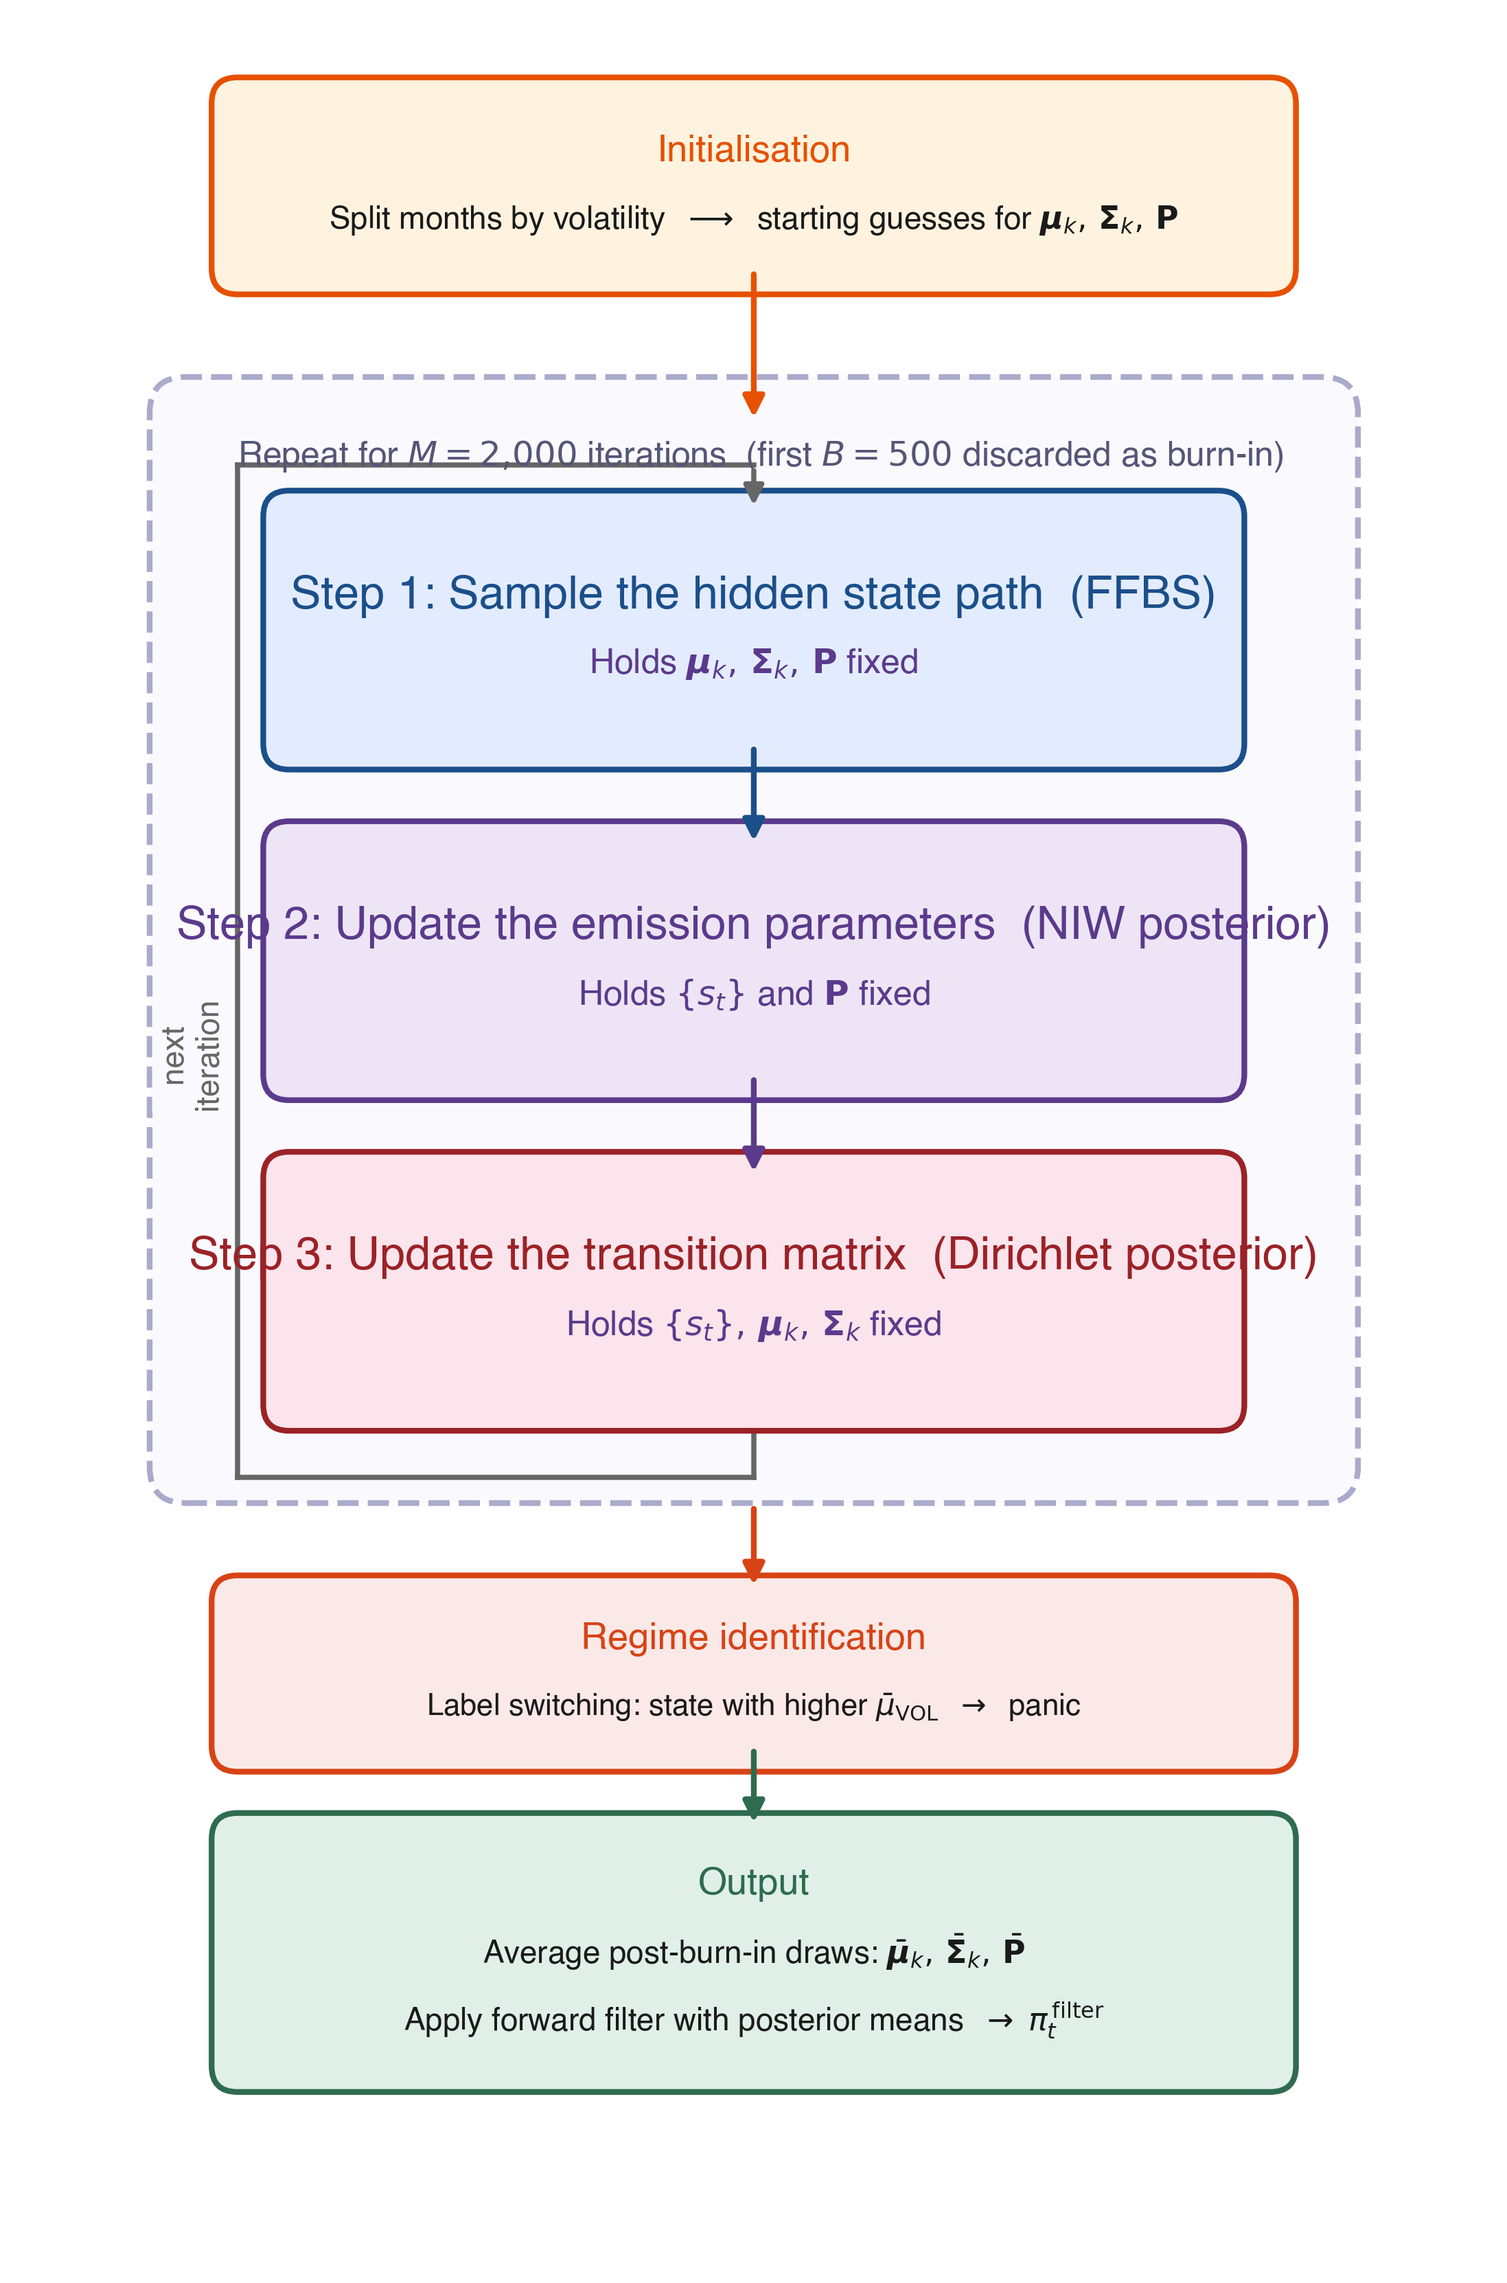
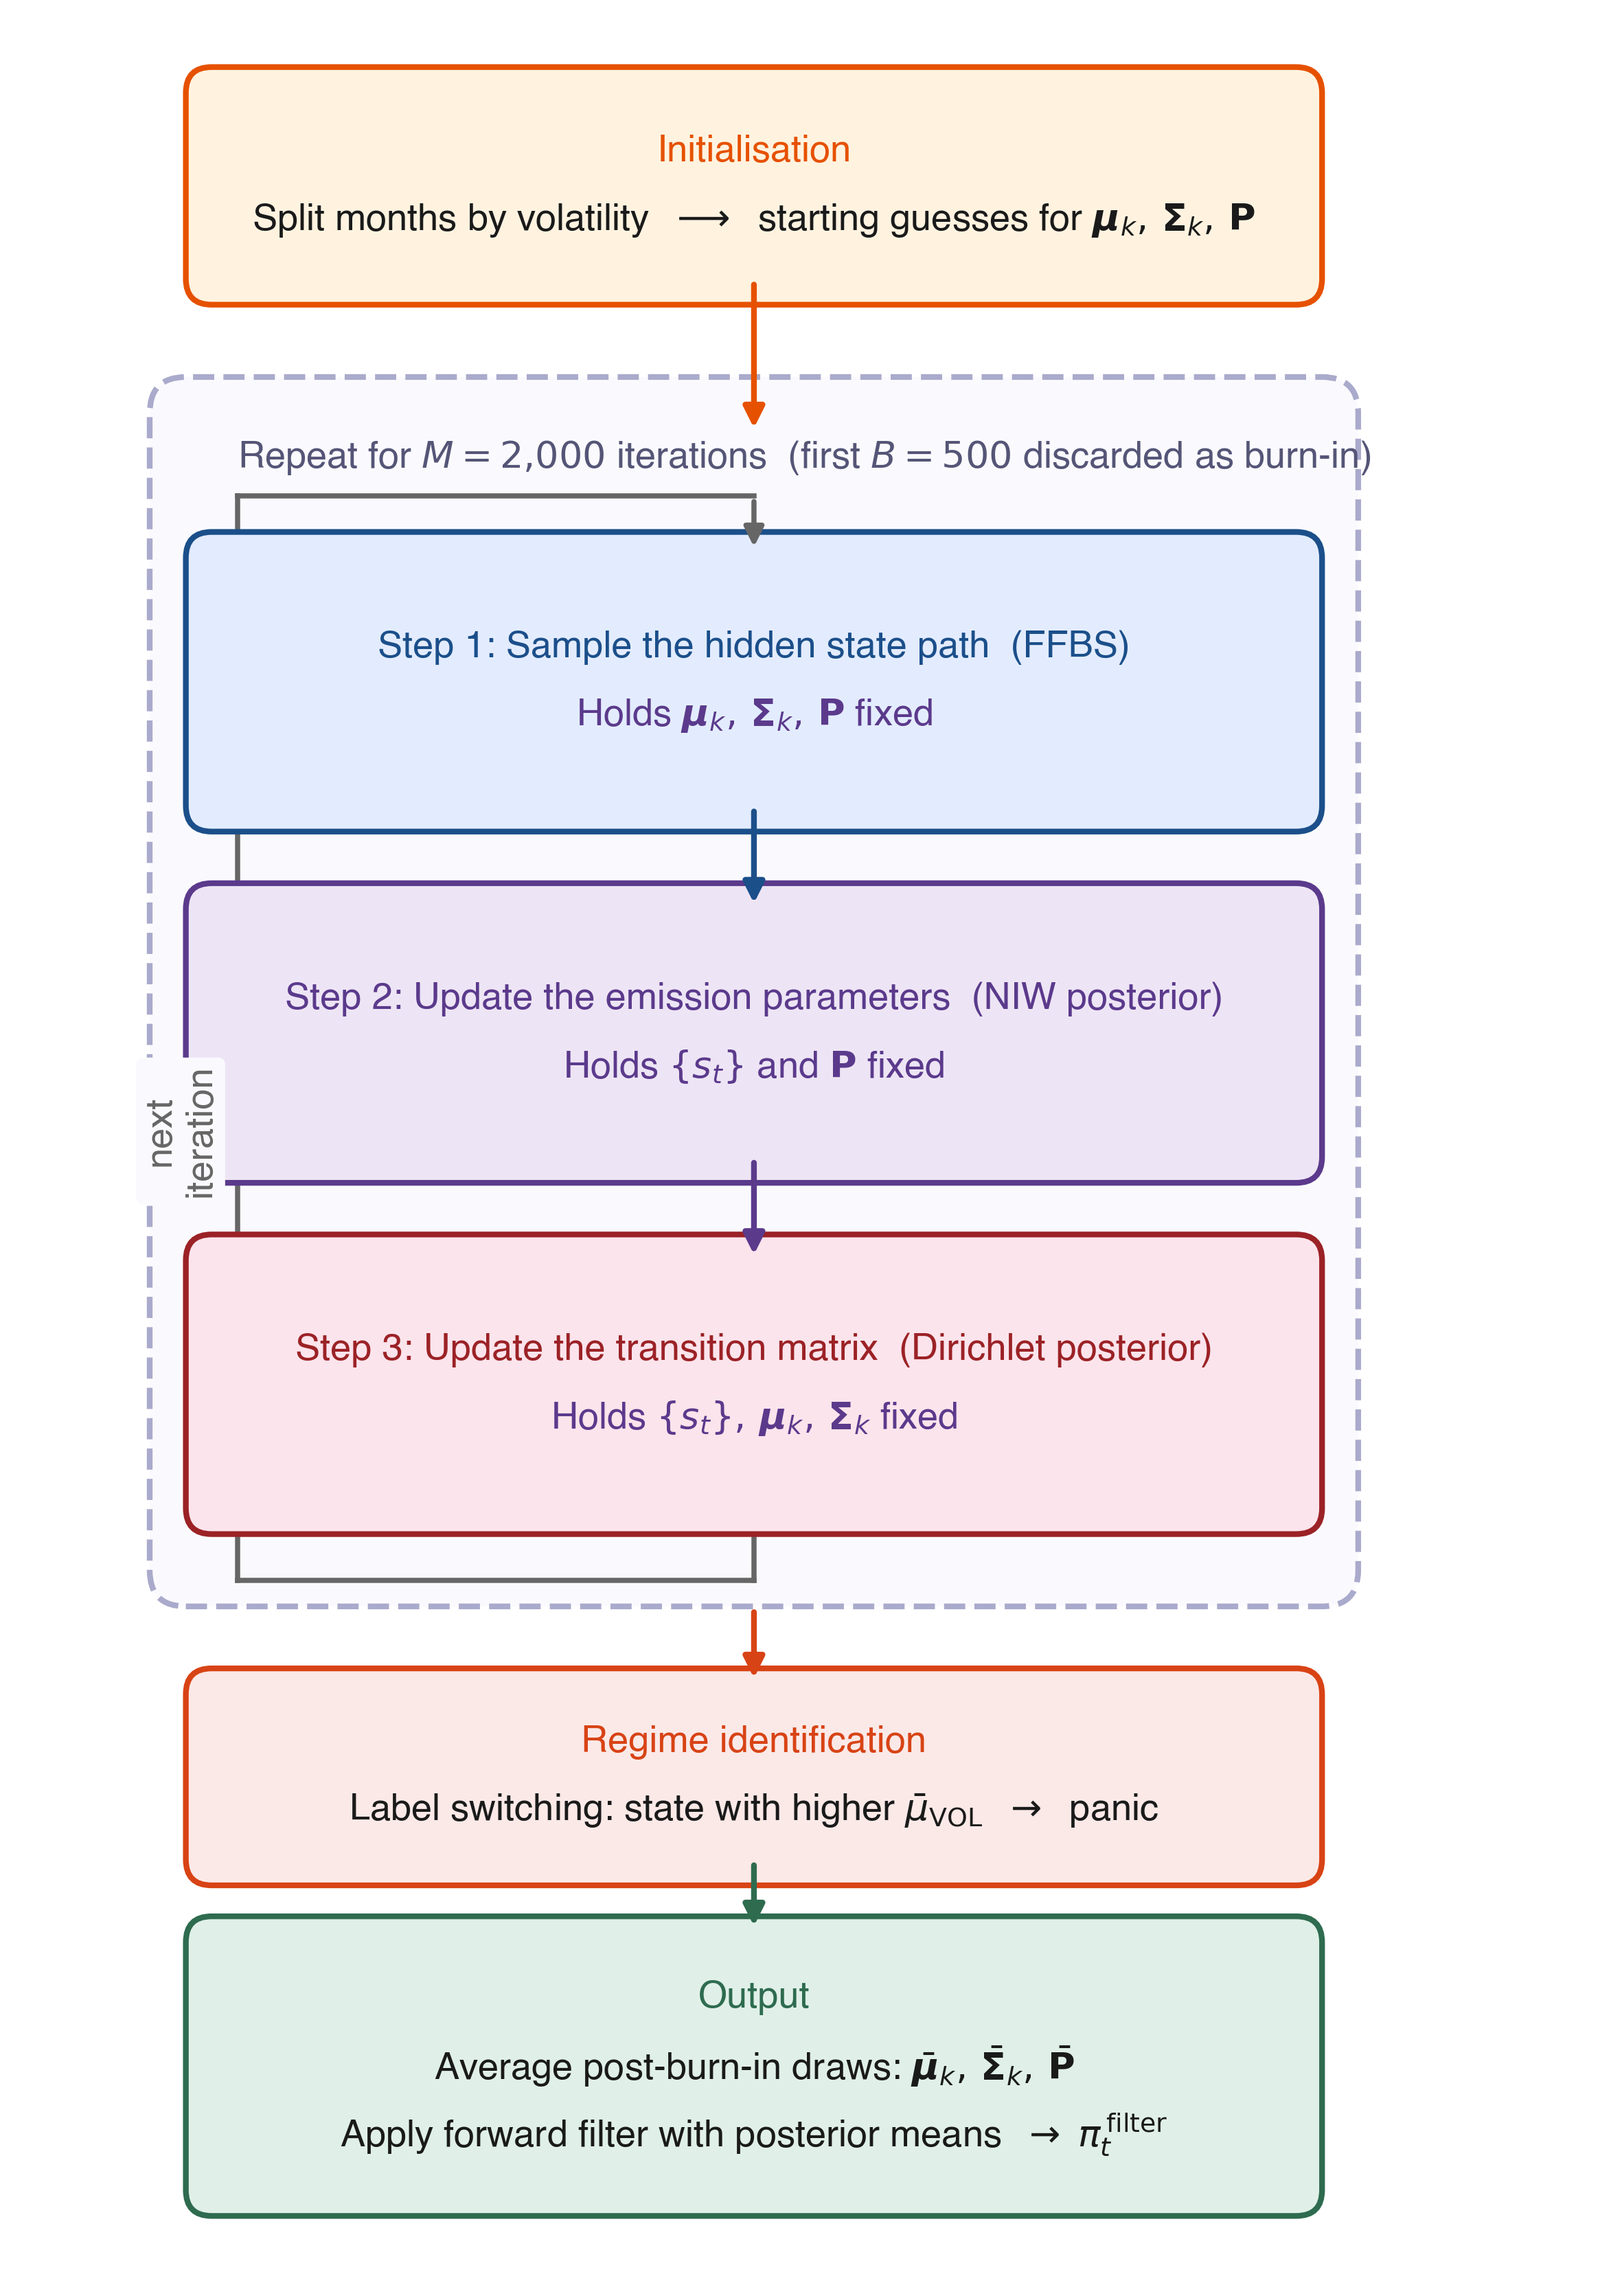
methodology: fix Gibbs diagram (uniform 13pt text, wider boxes, no loop-label overlap)
- Single font size (13pt) for every label in the figure; bold is reserved for the box headers and the loop label.
- Step box width 9 -> 10.5 so the longest step title fits without clipping.
- Loop-back arrow's horizontal feed-in moved below the "Repeat for M=2000" label so the two no longer cross.

Changed region(s): [[0.0929, 0.031, 0.8674, 0.9916]]

diff --git a/archive/scripts/generate_gibbs_diagram.py b/archive/scripts/generate_gibbs_diagram.py
@@ -30,8 +30,10 @@ EQ_COLOR = '#333333'
 plt.rcParams['font.family'] = 'sans-serif'
 plt.rcParams['font.sans-serif'] = ['Helvetica', 'Arial', 'DejaVu Sans']
 
-fig, ax = plt.subplots(1, 1, figsize=(11, 14))
-ax.set_xlim(-1.5, 12.5)
+FS = 13  # uniform font size everywhere
+
+fig, ax = plt.subplots(1, 1, figsize=(12, 14))
+ax.set_xlim(-1.5, 13.5)
 ax.set_ylim(-19, 2.5)
 ax.set_aspect('equal')
 ax.axis('off')
@@ -63,18 +65,19 @@ def arrow_down(ax, x, y1, y2, color=GREY, lw=2):
         color=color, zorder=5))
 
 cx = 5.5
-sw = 9.0
+sw = 10.5      # step box width (wider so titles fit)
+init_w = 10.5  # init/label/output width matches steps
 step_gap = 1.0
 
 # ═══════════════════════════════════════════
 # INIT
 # ═══════════════════════════════════════════
 init_y = 1.0
-init_h = 1.6
-add_box(ax, cx, init_y, 10.0, init_h, [
-    ('Initialisation', 13, INIT_EDGE, True),
+init_h = 1.8
+add_box(ax, cx, init_y, init_w, init_h, [
+    ('Initialisation', FS, INIT_EDGE, True),
     ('', 3, TEXT_DARK, False),
-    (r'Split months by volatility $\;\longrightarrow\;$ starting guesses for $\boldsymbol{\mu}_k,\, \boldsymbol{\Sigma}_k,\, \mathbf{P}$', 11, TEXT_DARK, False),
+    (r'Split months by volatility $\;\longrightarrow\;$ starting guesses for $\boldsymbol{\mu}_k,\, \boldsymbol{\Sigma}_k,\, \mathbf{P}$', FS, TEXT_DARK, False),
 ], INIT_FILL, INIT_EDGE)
 
 arrow_down(ax, cx, init_y - init_h/2, init_y - init_h/2 - 1.5, INIT_EDGE)
@@ -83,9 +86,9 @@ arrow_down(ax, cx, init_y - init_h/2, init_y - init_h/2 - 1.5, INIT_EDGE)
 # Compute step positions
 # ═══════════════════════════════════════════
 loop_top = -1.2
-sh = 2.2
+sh = 2.4
 
-s1_y = loop_top - 1.0 - sh/2
+s1_y = loop_top - 1.4 - sh/2     # extra headroom above Step 1 for the "Repeat" label and loop-back arrow
 s2_y = s1_y - sh/2 - step_gap - sh/2
 s3_y = s2_y - sh/2 - step_gap - sh/2
 
@@ -99,17 +102,18 @@ loop_box = FancyBboxPatch((0.0, loop_bot), 11, loop_top - loop_bot,
                             boxstyle='round,pad=0.35', facecolor=LOOP_BG,
                             edgecolor=LOOP_EDGE, linewidth=2, linestyle='--', zorder=0)
 ax.add_patch(loop_box)
-ax.text(0.5, loop_top - 0.25,
+loop_label_y = loop_top - 0.25
+ax.text(0.5, loop_label_y,
         r'Repeat for $M = 2{,}000$ iterations  (first $B = 500$ discarded as burn-in)',
-        fontsize=12, fontstyle='italic', color='#555577', va='top', fontweight='bold')
+        fontsize=FS, fontstyle='italic', color='#555577', va='top', fontweight='bold')
 
 # ═══════════════════════════════════════════
 # STEP 1: FFBS
 # ═══════════════════════════════════════════
 add_box(ax, cx, s1_y, sw, sh, [
-    (r'Step 1: Sample the hidden state path  (FFBS)', 16, BLUE, True),
+    (r'Step 1: Sample the hidden state path  (FFBS)', FS, BLUE, True),
     ('', 2, TEXT_DARK, False),
-    (r'Holds $\boldsymbol{\mu}_k,\, \boldsymbol{\Sigma}_k,\, \mathbf{P}$ fixed', 12, PURPLE, False),
+    (r'Holds $\boldsymbol{\mu}_k,\, \boldsymbol{\Sigma}_k,\, \mathbf{P}$ fixed', FS, PURPLE, False),
 ], STEP1_FILL, STEP1_EDGE)
 
 arrow_down(ax, cx, s1_y - sh/2, s1_y - sh/2 - step_gap, BLUE)
@@ -118,9 +122,9 @@ arrow_down(ax, cx, s1_y - sh/2, s1_y - sh/2 - step_gap, BLUE)
 # STEP 2: NIW update
 # ═══════════════════════════════════════════
 add_box(ax, cx, s2_y, sw, sh, [
-    (r'Step 2: Update the emission parameters  (NIW posterior)', 16, PURPLE, True),
+    (r'Step 2: Update the emission parameters  (NIW posterior)', FS, PURPLE, True),
     ('', 2, TEXT_DARK, False),
-    (r'Holds $\{s_t\}$ and $\mathbf{P}$ fixed', 12, PURPLE, False),
+    (r'Holds $\{s_t\}$ and $\mathbf{P}$ fixed', FS, PURPLE, False),
 ], STEP2_FILL, STEP2_EDGE)
 
 arrow_down(ax, cx, s2_y - sh/2, s2_y - sh/2 - step_gap, PURPLE)
@@ -129,30 +133,33 @@ arrow_down(ax, cx, s2_y - sh/2, s2_y - sh/2 - step_gap, PURPLE)
 # STEP 3: Dirichlet update
 # ═══════════════════════════════════════════
 add_box(ax, cx, s3_y, sw, sh, [
-    (r'Step 3: Update the transition matrix  (Dirichlet posterior)', 16, '#9B2226', True),
+    (r'Step 3: Update the transition matrix  (Dirichlet posterior)', FS, '#9B2226', True),
     ('', 2, TEXT_DARK, False),
-    (r'Holds $\{s_t\},\, \boldsymbol{\mu}_k,\, \boldsymbol{\Sigma}_k$ fixed', 12, PURPLE, False),
+    (r'Holds $\{s_t\},\, \boldsymbol{\mu}_k,\, \boldsymbol{\Sigma}_k$ fixed', FS, PURPLE, False),
 ], STEP3_FILL, STEP3_EDGE)
 
 # ── Loop-back arrow ──
+# Routed on the LEFT side of the loop box, with the horizontal feed-in placed
+# between the "Repeat for M=..." label and the Step 1 box.
 loop_bottom_y = s3_y - sh/2 - 0.7
 loop_x = 0.5
+step1_top = s1_y + sh/2
+horiz_top_y = (loop_label_y - 0.55)   # well below the label baseline
 # Down from Step 3
 ax.plot([cx, cx], [s3_y - sh/2, loop_bottom_y], color=GREY, lw=1.8, zorder=2)
 # Across to the left
 ax.plot([cx, loop_x], [loop_bottom_y, loop_bottom_y], color=GREY, lw=1.8, zorder=2)
-# Up along the left side to above Step 1
-step1_top = s1_y + sh/2
-ax.plot([loop_x, loop_x], [loop_bottom_y, step1_top + 0.5], color=GREY, lw=1.8, zorder=2)
+# Up along the left side
+ax.plot([loop_x, loop_x], [loop_bottom_y, horiz_top_y], color=GREY, lw=1.8, zorder=2)
 # Across to the right, ending above Step 1 center
-ax.plot([loop_x, cx], [step1_top + 0.5, step1_top + 0.5], color=GREY, lw=1.8, zorder=2)
+ax.plot([loop_x, cx], [horiz_top_y, horiz_top_y], color=GREY, lw=1.8, zorder=2)
 # Arrow down into the top of Step 1
 ax.add_patch(FancyArrowPatch(
-    posA=(cx, step1_top + 0.5), posB=(cx, step1_top + 0.05),
+    posA=(cx, horiz_top_y), posB=(cx, step1_top + 0.05),
     arrowstyle='-|>', mutation_scale=14, linewidth=1.8,
     color=GREY, zorder=5))
-ax.text(loop_x - 0.45, (loop_bottom_y + s1_y) / 2, 'next\niteration',
-        fontsize=11, fontstyle='italic', color=GREY,
+ax.text(loop_x - 0.55, (loop_bottom_y + s1_y) / 2, 'next\niteration',
+        fontsize=FS, fontstyle='italic', color=GREY,
         ha='center', va='center', rotation=90,
         bbox=dict(boxstyle='round,pad=0.2', facecolor=LOOP_BG, edgecolor='none'))
 
@@ -163,28 +170,28 @@ LABEL_FILL = '#FBE9E7'
 LABEL_EDGE = '#D84315'
 
 label_y = loop_bot - 2.0
-label_h = 1.4
+label_h = 1.6
 arrow_down(ax, cx, loop_bot - 0.35, label_y + label_h/2 + 0.1, LABEL_EDGE)
 
-add_box(ax, cx, label_y, 10.0, label_h, [
-    ('Regime identification', 13, LABEL_EDGE, True),
+add_box(ax, cx, label_y, init_w, label_h, [
+    ('Regime identification', FS, LABEL_EDGE, True),
     ('', 2, TEXT_DARK, False),
-    (r'Label switching: state with higher $\bar{\mu}_{\mathrm{VOL}}$ $\;\rightarrow\;$ panic', 10.5, TEXT_DARK, False),
+    (r'Label switching: state with higher $\bar{\mu}_{\mathrm{VOL}}$ $\;\rightarrow\;$ panic', FS, TEXT_DARK, False),
 ], LABEL_FILL, LABEL_EDGE)
 
 # ═══════════════════════════════════════════
 # OUTPUT
 # ═══════════════════════════════════════════
 out_y = label_y - label_h/2 - 2.0
-out_h = 2.2
+out_h = 2.4
 arrow_down(ax, cx, label_y - label_h/2, out_y + out_h/2 + 0.1, GREEN)
 
-add_box(ax, cx, out_y, 10.0, out_h, [
-    ('Output', 13, GREEN, True),
+add_box(ax, cx, out_y, init_w, out_h, [
+    ('Output', FS, GREEN, True),
     ('', 3, TEXT_DARK, False),
-    (r'Average post-burn-in draws: $\bar{\boldsymbol{\mu}}_k,\, \bar{\boldsymbol{\Sigma}}_k,\, \bar{\mathbf{P}}$', 11, TEXT_DARK, False),
+    (r'Average post-burn-in draws: $\bar{\boldsymbol{\mu}}_k,\, \bar{\boldsymbol{\Sigma}}_k,\, \bar{\mathbf{P}}$', FS, TEXT_DARK, False),
     ('', 2, TEXT_DARK, False),
-    (r'Apply forward filter with posterior means $\;\rightarrow\; \pi_t^{\,\mathrm{filter}}$', 11, TEXT_DARK, False),
+    (r'Apply forward filter with posterior means $\;\rightarrow\; \pi_t^{\,\mathrm{filter}}$', FS, TEXT_DARK, False),
 ], OUTPUT_FILL, OUTPUT_EDGE)
 
 plt.savefig('plots/thesis/gibbs_sampling_diagram.png', dpi=300, bbox_inches='tight',
